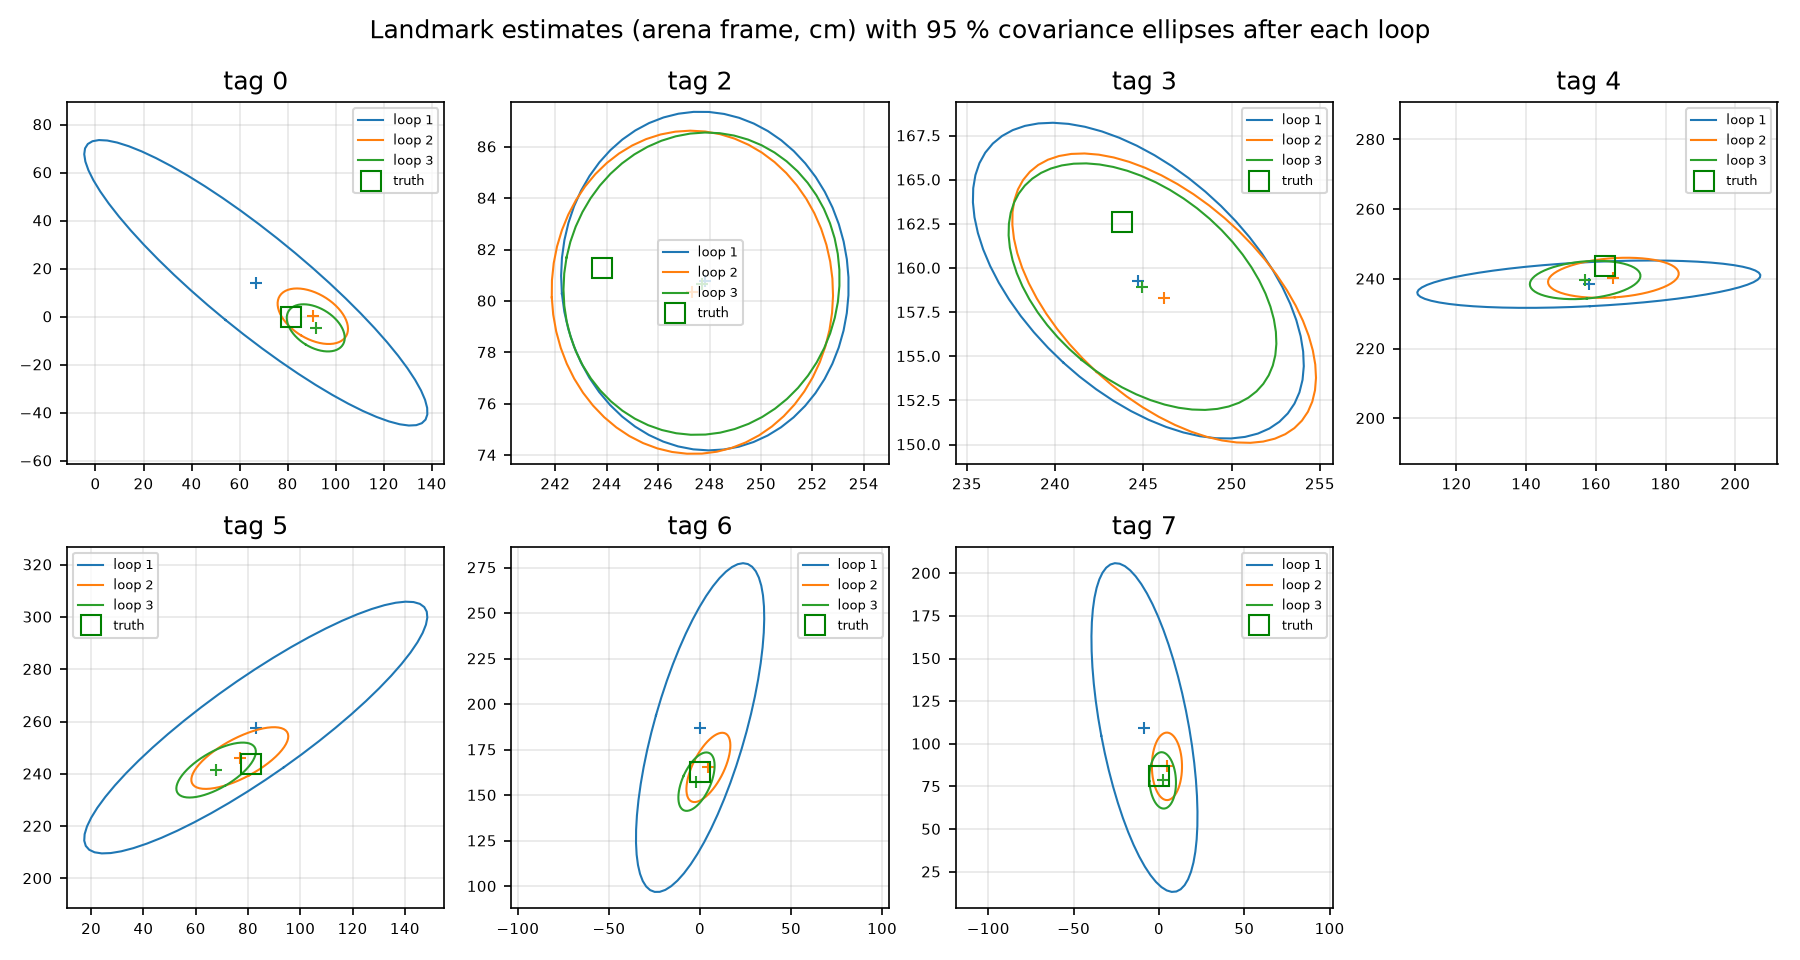
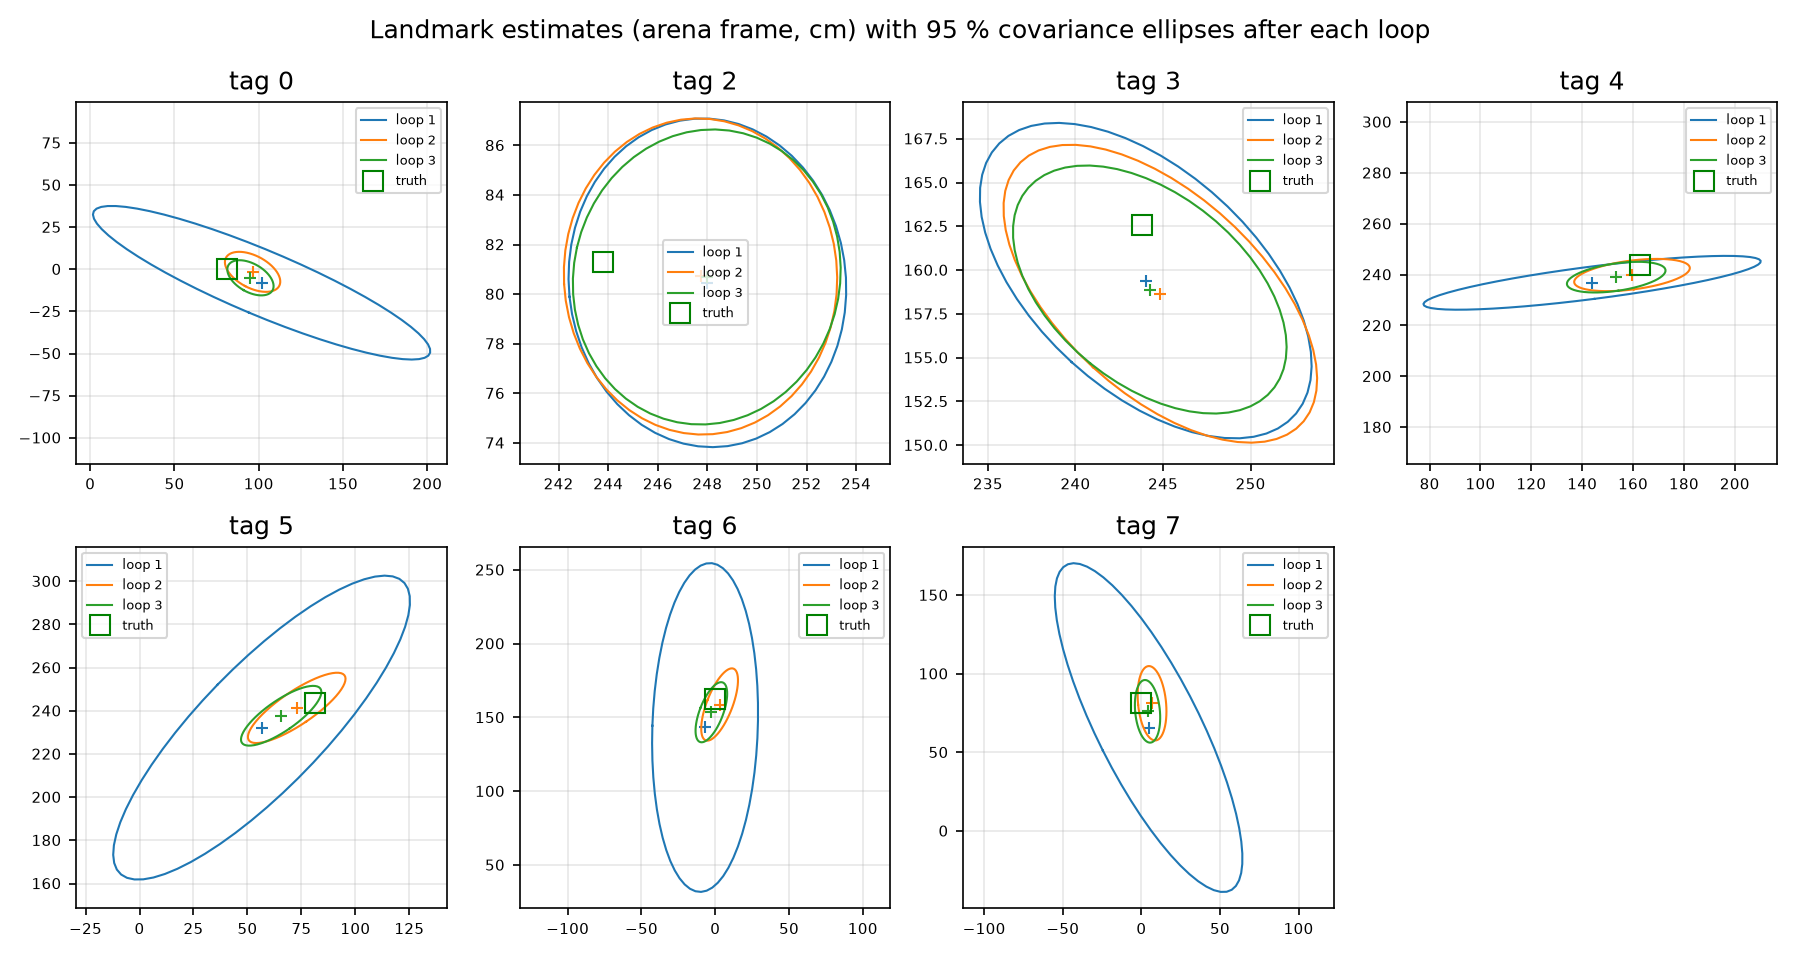
EKF-SLAM: 25 deg turn pieces, turn gain 0.9 +-35 % (octagon turns came out 1.1 x planned)
Octagon run 2 lost its heading because each 46 deg vertex turn left every
mapped tag out of view and the filter under-predicted the turn by ~13 deg.
Smaller pieces keep a mapped tag in the +-32 deg field of view across each
piece. Square run 3 figures regenerated (9.4 cm, 0 recoveries).

diff --git a/robot_control/robot_control/ekf_slam.py b/robot_control/robot_control/ekf_slam.py
@@ -30,9 +30,10 @@ DRIVE_STD_BASE = 0.005                  # m
 DRIVE_STD_PER_M = 0.05                  # along-track, 5 % of the distance
 DRIVE_HEADING_STD_PER_M = math.radians(4.0)   # heading drift while driving
 TURN_STD_BASE = math.radians(2.0)
-TURN_STD_FRACTION = 0.25                # turns are erratic on the arena floor (12-42 deg for
-                                        # the same 46 deg command, measured from tag bearings)
-TURN_GAIN = 0.75                        # mean turn = 0.75 x planned (fitted on 3 runs)
+TURN_STD_FRACTION = 0.35                # turns are erratic on the arena floor: the same command
+                                        # came out 0.3-0.9 x planned on the square runs and
+                                        # 1.1 x planned on the octagon runs (tag bearings)
+TURN_GAIN = 0.9                         # between the two regimes; with +-35 % it covers both
 
 # measurement (R): frame-to-frame jitter is < 1 mm, the error is bias (calibration, lens
 # offset, placement), measured against the tape at 1.7 m as ~4 cm
@@ -232,7 +233,10 @@ POS_TOL = 0.06              # m, waypoint reached
 APPROACH_RANGE = 0.15       # m, closer than this only drive forward/backward
 AIM_TOL = math.radians(6.0)
 MIN_DRIVE = 0.04            # m, shorter drives barely move the robot
-MAX_TURN_STEP = math.radians(46.0)  # turns are made in pieces of at most this, with a look after each
+MAX_TURN_STEP = math.radians(25.0)  # turns are made in pieces of at most this, with a look after each:
+                                    # smaller than the +-32 deg field of view, so a mapped tag stays in
+                                    # view across a piece and corrects the heading before a new tag is
+                                    # added (with 46 deg pieces the octagon lost ~13 deg per vertex)
 
 
 def circular_median(angles):

diff --git a/HANDOFF.md b/HANDOFF.md
@@ -10,8 +10,8 @@ HW2 is finished; see "HW2 (done)" at the end.
 | Item | State |
 |---|---|
 | Arena and ground truth | Done. Tags were placed at the planned positions, and the user says those **are** the measured ground truth (`ground_truth_hw3.txt`). |
-| SLAM code (v2) | Done and pushed. A turn-model fix is **planned, not written**; see "Next step". |
-| Square run, for the report | **Done: square run 3.** Saved in `report_hw3/square_run3/`, with a 7.0 cm mean landmark error. |
+| SLAM code (v2) | Done and pushed. **Turn fix written and pushed:** 25° turn pieces, TURN_GAIN 0.9, TURN_STD_FRACTION 0.35. Needs an octagon run on the robot. |
+| Square run, for the report | **Done: square run 3.** Saved in `report_hw3/square_run3/`. Figures regenerated with the new filter: 9.4 cm mean landmark error (5.5 cm best-fit), 0 recoveries. |
 | Octagon run | **Failing.** The robot loses its heading during loop 1 and drives out of the arena. This is the current task. |
 | Noise test | Done: `runs/bundle_20261113_053954/`. |
 | Lens-to-axle distance | **Still not given by the user.** `CAMERA_OFFSET = 0.10` m is a guess. The replay can correct it afterwards with `--camera-offset`. |
@@ -116,7 +116,17 @@ Then check that the numbers are still about 7 cm.
 - At every octagon vertex the robot turns toward a **new** tag. No mapped tag is in view to correct the heading, so each new landmark is placed with the wrong heading. The map stays self-consistent but rotates further at each vertex.
 - When the robot sees tag 2 again (the loop closure), the heading error is ~100°. Every sighting is rejected. The recovery inflation of 30° is too small, so the robot drives on a wrong estimate and leaves the arena.
 
-## Next step (planned, not yet done)
+## Diagnosis of octagon run 2 (done)
+- **Measured turn.** The only octagon turn with the same tag in view before and after came out 1.10× planned. The filter assumed 0.75×.
+- **Replay with the right gain.** With a gain of ~1.09 (`--kt 1.45`), octagon run 2 replays with 0 rejections and a 5.9 cm best-fit error. So the failure is the turn model, not the camera or the start pose.
+- **No single gain fits.** Square runs need ~0.75 and fail at ≥ 0.95; the octagon needs ≥ 1.0. A grid over gain × std on all 5 logs found nothing that works for both.
+- **Simulation, 6 seeds, ±30% erratic turns.**
+  - 46° pieces with gain 0.75 and turns at 1.1× planned: the robot leaves the arena in 3–4 of 6 runs. This reproduces the real failure.
+  - 25° pieces with gain 0.9 and std 0.35: 0 recoveries in both regimes (0.75× and 1.1× planned), median error 2–9 cm.
+  - **Chosen:** 25° pieces, gain 0.9, std 0.35. Steps 1, 2, 4 and 5 below are done; 6 onwards remain.
+- **Replaying octagon logs.** Their headers log `turn_gain` 0.75, so the replay uses that. Add `--kt 1.2` to replay them with the new model.
+
+## Next step
 1. **Smaller turn pieces.** Change `MAX_TURN_STEP` in `ekf_slam.py` from 46° to about **25°**. A tag that's already mapped then stays inside the ±32° field of view across each piece and corrects the heading before a new tag is added. This is the main fix.
 2. **Turn model for erratic turns.** Set `TURN_GAIN` to about 0.85–0.9 and `TURN_STD_FRACTION` to about 0.35, instead of 0.75 / 0.25.
 3. **Optionally,** raise the recovery heading inflation, e.g. to 60°, or add a re-anchoring step.
